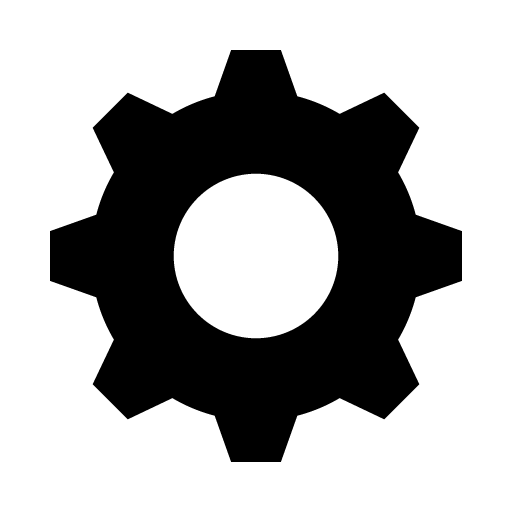
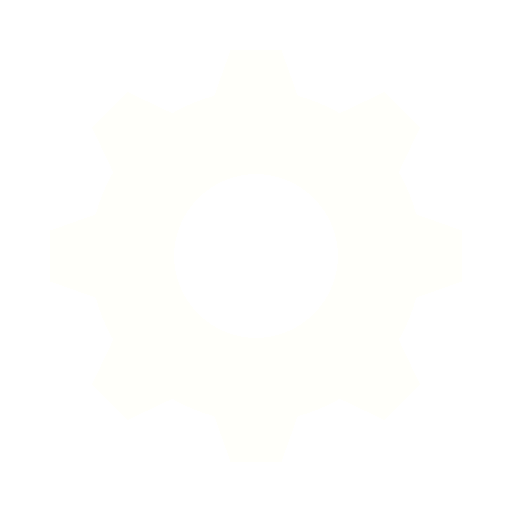
CSS button color changes
made some changes to the button colors.  made them darker and changed text color to match background

diff --git a/TeachAssist/wwwroot/css/site.css b/TeachAssist/wwwroot/css/site.css
@@ -21,19 +21,19 @@ a {
 #user-account-btn{
     height: 65%;
     margin-right: 20px;
-    border: 3px solid #929eba;
-    color: black;
+    border: 3px solid #383a86;
+    color: #fffffa;
     font-weight: bold;
-    background-color: #929eba;
+    background-color: #383a86;
 }
 
 #user-settings-btn{
     height: 65%;
     margin-right: 20px;
-    border: 3px solid #929eba;
-    color: black;
+    border: 3px solid #383a86;
+    color: #fffffa;
     font-weight: bold;
-    background-color: #929eba;
+    background-color: #383a86;
 }
 
 .nav-pills .nav-link.active, .nav-pills .show > .nav-link {
@@ -125,10 +125,10 @@ body {
     #action-menu button {
         height: 65%;
         margin-right: 20px;
-        border: 3px solid #929eba;
-        color: black;
+        border: 3px solid #383a86;
+        color: #fffffa;
         font-weight: bold;
-        background-color: #929eba;
+        background-color: #383a86;
         
     }
 
